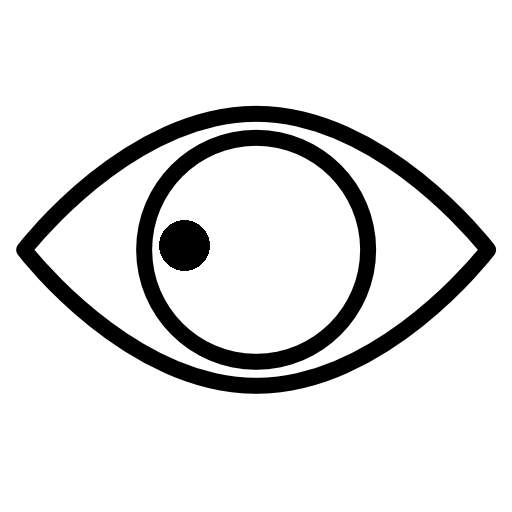
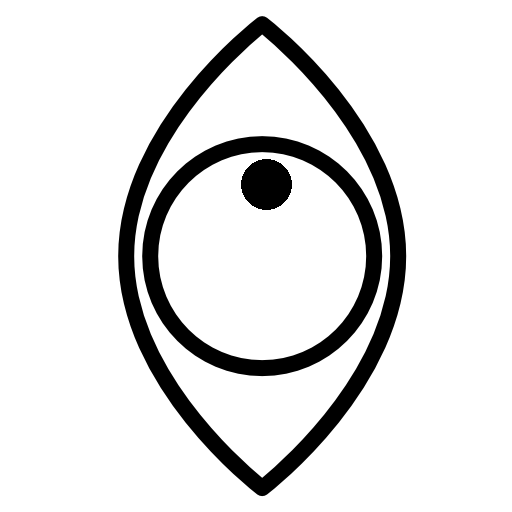
adjusted images and added visual cues to gravity changes

Changed region(s): [[0.0312, 0.0312, 0.9688, 0.9688], [0.6562, 0.3125, 0.6875, 0.3438]]

diff --git a/Tetris.py b/Tetris.py
@@ -232,15 +232,23 @@ clock = pygame.time.Clock()
 fps = 25
 game = Tetris(20, 20)
 counter = 0
-image = pygame.image.load("Eyes/Eye_down.png").convert()
+image_down = pygame.image.load("Eyes/Eye_down.png").convert_alpha()
+image_up = pygame.image.load("Eyes/Eye_up.png").convert_alpha()
+image_left = pygame.image.load("Eyes/Eye_left.png").convert_alpha()
+image_right = pygame.image.load("Eyes/Eye_right.png").convert_alpha()
 center_x = game.x + (game.width // 2) * game.zoom
 center_y = game.y + (game.height // 2) * game.zoom
-image_x = center_x - (image.get_width() // 2)
-image_y = center_y - (image.get_height() // 2)
-scaled_image = pygame.transform.scale(image, (game.height, game.width))
+#scale the image to the size of 4*4 squares
+image_down = pygame.transform.scale(image_down, (game.zoom*4, game.zoom*4))
+image_up = pygame.transform.scale(image_up, (game.zoom*4, game.zoom*4))
+image_left = pygame.transform.scale(image_left, (game.zoom*4, game.zoom*4))
+image_right = pygame.transform.scale(image_right, (game.zoom*4, game.zoom*4))
+image_down.set_colorkey(WHITE)
+image_up.set_colorkey(WHITE)
+image_left.set_colorkey(WHITE)
+image_right.set_colorkey(WHITE)
 
 
-# Draw the image onto the screen
 pressing_down = False
 
 while not done:
@@ -316,13 +324,26 @@ while not done:
 
     for i in range(game.height):
         for j in range(game.width):
-                pygame.draw.rect(screen, GRAY, [game.x + game.zoom * j, game.y + game.zoom * i, game.zoom, game.zoom], 1)
+                #if it is one of the 8 central squares, display the image
+                if i in range(game.height//2-2,game.height//2+2) and j in range(game.width//2-2,game.width//2+2):
+                    pygame.draw.rect(screen, RED, [game.x + game.zoom * j, game.y + game.zoom * i, game.zoom, game.zoom], 1)
+                    #display the image over the 8 central squares
+                    center_x = game.x + (game.width // 2-2) * game.zoom
+                    center_y = game.y + (game.height // 2-2) * game.zoom
+                    if game.gravity=='down':
+                        screen.blit(image_down, (center_x, center_y))
+                    elif game.gravity=='up':
+                        screen.blit(image_up, (center_x, center_y))
+                    elif game.gravity=='left':
+                        screen.blit(image_left, (center_x, center_y))
+                    elif game.gravity=='right':
+                        screen.blit(image_right, (center_x, center_y))
+                else:
+                    pygame.draw.rect(screen, GRAY, [game.x + game.zoom * j, game.y + game.zoom * i, game.zoom, game.zoom], 1)
                 if game.field[i][j] > 0:
                     pygame.draw.rect(screen, colors[game.field[i][j]],
                                 [game.x + game.zoom * j + 1, game.y + game.zoom * i + 1, game.zoom - 2, game.zoom - 1])
-    image_x = 100  # Adjust this to change the x-position of the image
-    image_y = 100  # Adjust this to change the y-position of the image
-    screen.blit(scaled_image, (image_x, image_y))
+    
 
 
     if game.figure is not None:
